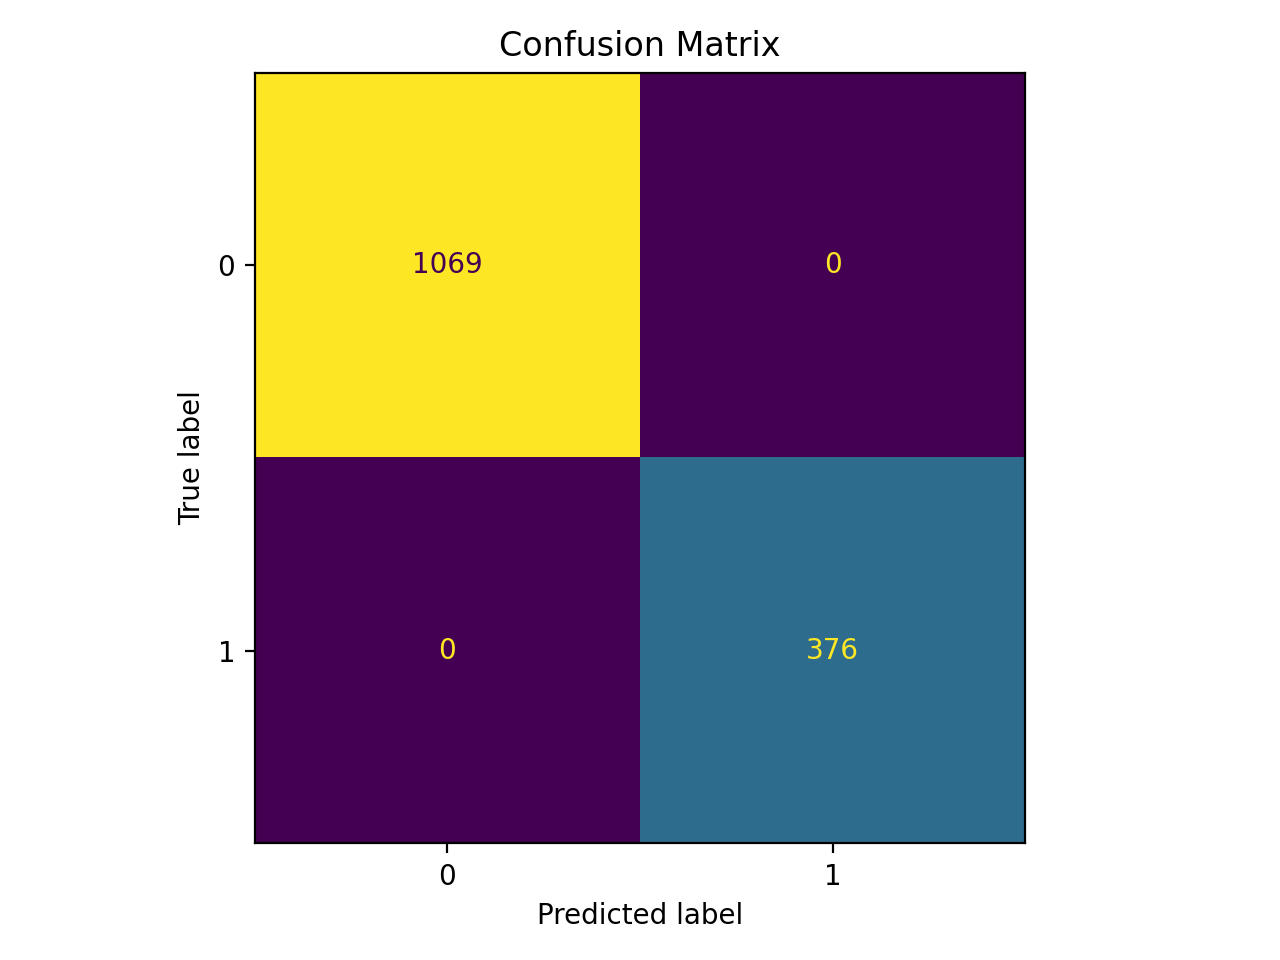
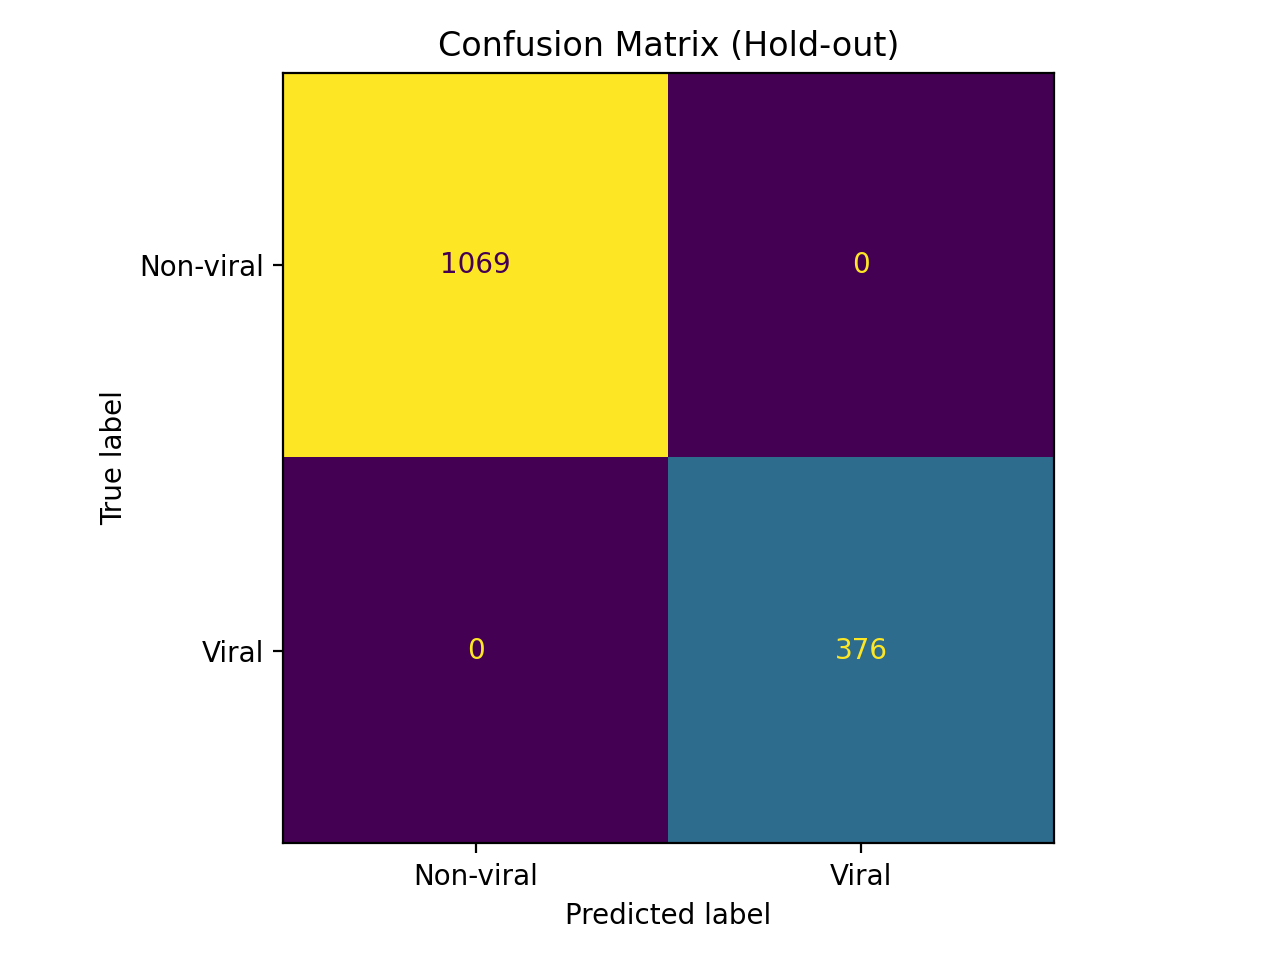
chore: clarify evaluation plots

diff --git a/src/models/evaluate.py b/src/models/evaluate.py
@@ -141,15 +141,19 @@ def save_figures(
     figures_dir.mkdir(parents=True, exist_ok=True)
     cm = confusion_matrix(y_test, y_pred)
     cm_path = figures_dir / "confusion_matrix.png"
-    ConfusionMatrixDisplay(cm).plot(colorbar=False)
-    plt.title("Confusion Matrix")
+    ConfusionMatrixDisplay(cm, display_labels=["Non-viral", "Viral"]).plot(colorbar=False)
+    plt.title("Confusion Matrix (Hold-out)")
+    plt.xlabel("Predicted label")
+    plt.ylabel("True label")
     plt.tight_layout()
     plt.savefig(cm_path, dpi=200)
     plt.close()
 
     roc_path = figures_dir / "roc_curve.png"
     RocCurveDisplay.from_predictions(y_test, y_scores)
-    plt.title("ROC Curve")
+    plt.title("ROC Curve (Hold-out)")
+    plt.xlabel("False Positive Rate")
+    plt.ylabel("True Positive Rate")
     plt.tight_layout()
     plt.savefig(roc_path, dpi=200)
     plt.close()
